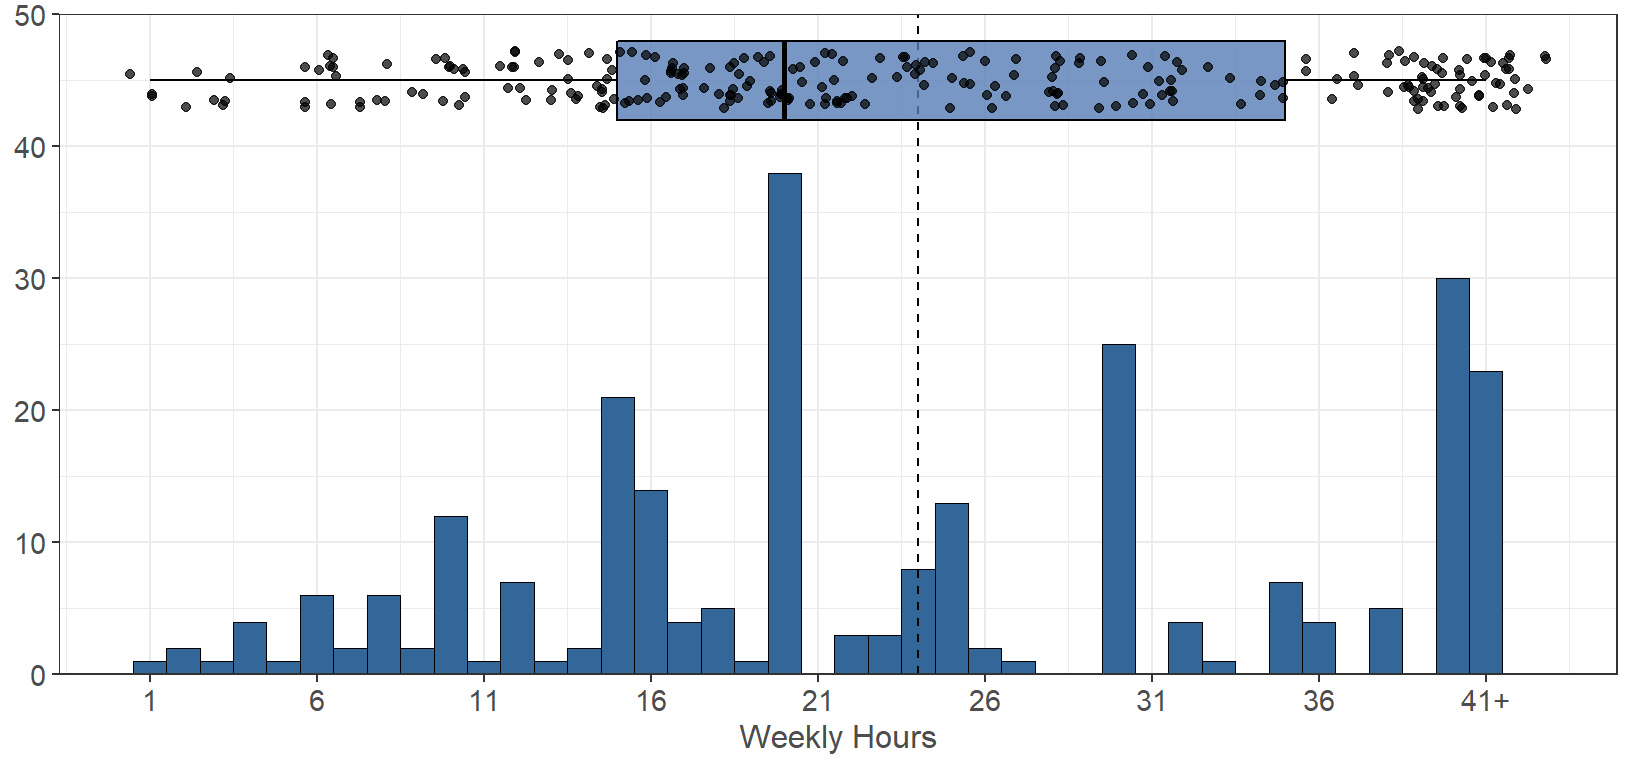
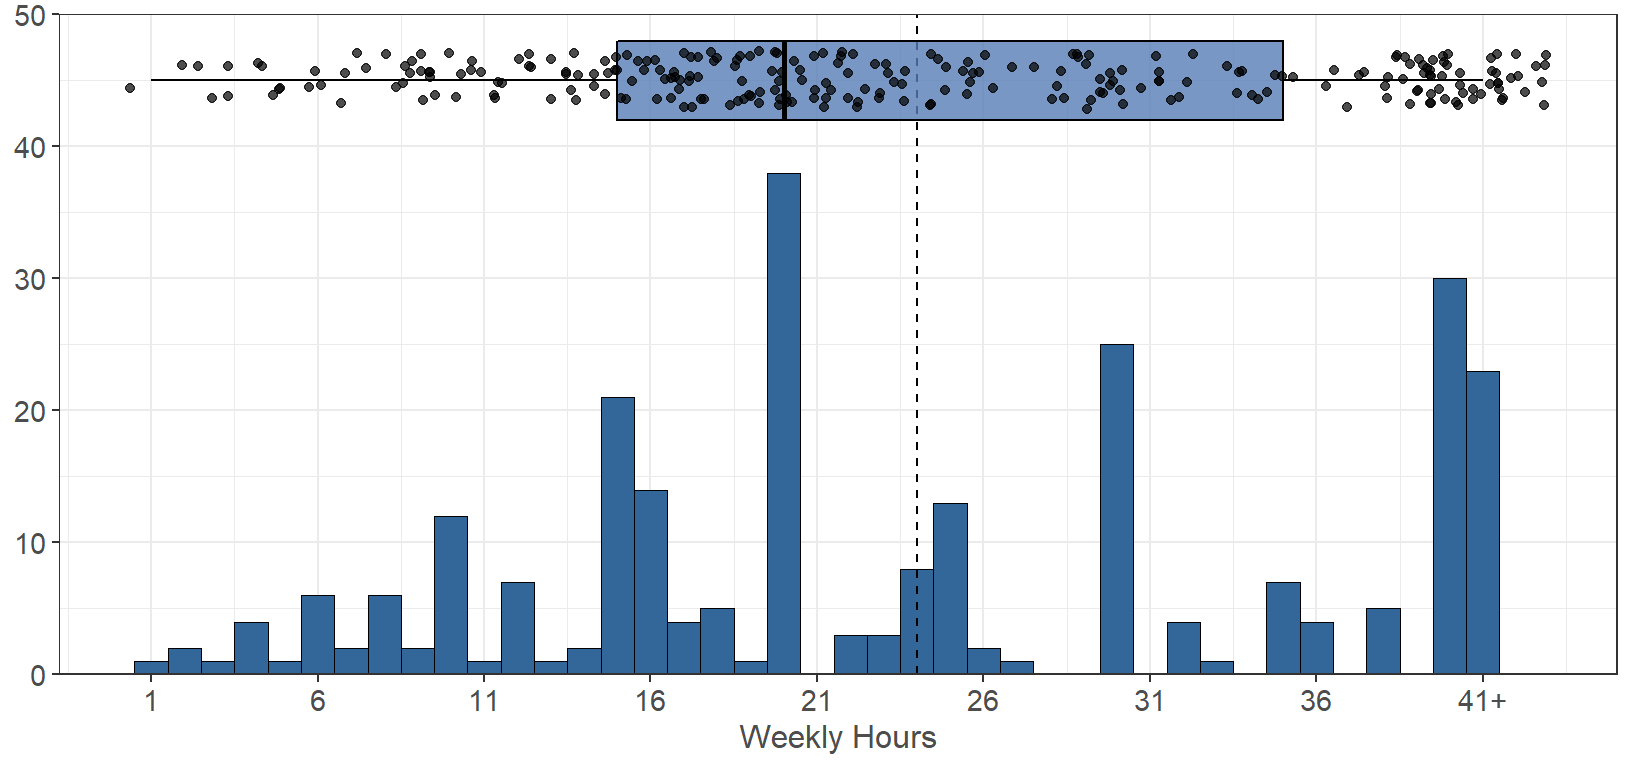
changes to workload graph labels, generalized analysis data code

diff --git a/Workload.html b/Workload.html
@@ -428,15 +428,15 @@ div.tocify {
 </div>
 <div id="academic-workload" class="section level2">
 <h2>Academic Workload</h2>
-<p>Below is a breakdown of the academic workload (using the 3 hours of work per unit measurement). <img src="Workload_files/figure-html/unnamed-chunk-9-1.png" width="672" style="display: block; margin: auto;" /> The average number of academic hours worked per week (denoted by the dotted line) is 40.95, while the median is 42 hours. The majority of students do seem to be working 36 or more hours per week, with 36 hours being most common (113 people) and 45 hours following that (92 people).</p>
+<p>Below is a breakdown of the academic workload (using the 3 hours of work per unit measurement). <em>Note that values denoted as “22+” are now “66+”, but were rounded to 66 for the analysis below</em>. <img src="Workload_files/figure-html/unnamed-chunk-10-1.png" width="672" style="display: block; margin: auto;" /> The average number of academic hours worked per week (denoted by the dotted line) is 40.95, while the median is 42 hours. The majority of students do seem to be working 36 or more hours per week, with 36 hours being most common (113 people) and 45 hours following that (92 people).</p>
 </div>
 <div id="non-academic-workload" class="section level2">
 <h2>Non-Academic Workload</h2>
-<p>Below is a combination of both paid and unpaid hours worked by students to get a further understanding of the workload participants face on a weekly basis. The values are also filtered so that only people who worked (more than 0 hours in total) were included. <img src="Workload_files/figure-html/unnamed-chunk-10-1.png" width="672" style="display: block; margin: auto;" /> The average number of total hours worked per week (denoted by the dotted line) is 26.85, while the median is 25 hours. The majority of students do seem to be working under 40 hours per week in total, with 20 hours being most common (31 people) and 40 hours following that (31 people).</p>
+<p>Below is a combination of both paid and unpaid hours worked by students to get a further understanding of the workload participants face on a weekly basis. The values are also filtered so that only people who worked (more than 0 hours in total) were included. <em>Note that values denoted as “41+” were added together to form “82+”, but are rounded to 82 for the analysis below</em>. <img src="Workload_files/figure-html/unnamed-chunk-11-1.png" width="768" style="display: block; margin: auto;" /> The average number of total hours worked per week (denoted by the dotted line) is 26.85, while the median is 25 hours. The majority of students do seem to be working under 40 hours per week in total, with 20 hours being most common (31 people) and 40 hours following that (31 people).</p>
 </div>
 <div id="total-workload" class="section level2">
 <h2>Total Workload</h2>
-<p>Below is a combination of all worked hours per week, both academic and non-academic. This includes units (3 hr/unit), paid, and unpaid worked hours. <img src="Workload_files/figure-html/unnamed-chunk-11-1.png" width="768" style="display: block; margin: auto;" /> The average number of total hours worked per week (denoted by the dotted line) is 60.06, while the median is 60 hours. The majority of students do seem to be working over full-time in total, with 45 hours being most common (35 people) and 36 hours following that (26 people).</p>
+<p>Below is a combination of all worked hours per week, both academic and non-academic. This includes units (3 hr/unit), paid, and unpaid worked hours. <em>Note that values denoted as “41+” and “22+” were rounded to 41 and 22 (respectively) for the below analysis</em>. <img src="Workload_files/figure-html/unnamed-chunk-12-1.png" width="768" style="display: block; margin: auto;" /> The average number of total hours worked per week (denoted by the dotted line) is 60.06, while the median is 60 hours. The majority of students do seem to be working over full-time in total, with 45 hours being most common (35 people) and 36 hours following that (26 people).</p>
 </div>
 
 
